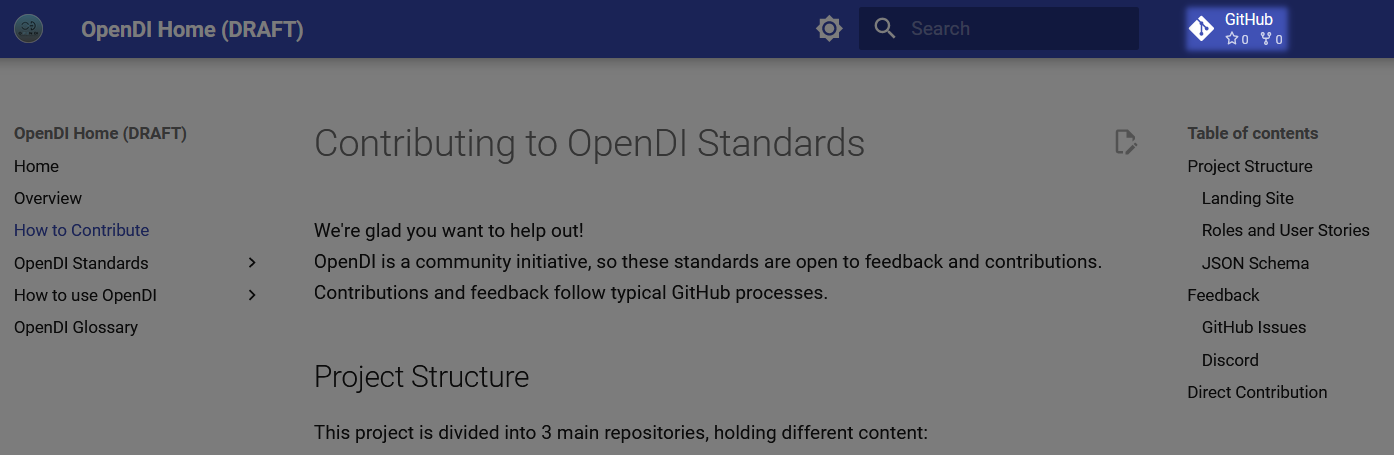
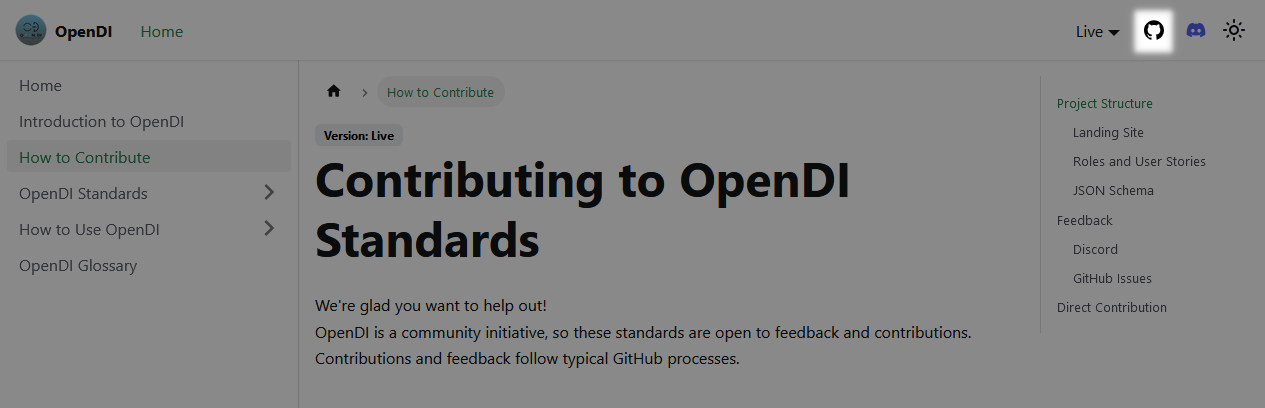
Update contribution guide for docusaurus site
This mostly meant updating the screenshots used throughout.

Preview changes in a deployed form here: https://opendi.org/next/How%20To%20Contribute

Also:
- added some instructions for Discord's forum channels
- expanded intro to lead into the rest of the sections a bit better
- added more info about documentaiton versioning on the site
- added link to the Maintainer Guide at the bottom of the direct contribution section

(Close #7 )

diff --git a/docs/How To Contribute.md b/docs/How To Contribute.md
@@ -1,7 +1,8 @@
 # Contributing to OpenDI Standards
 
 We're glad you want to help out!  
-OpenDI is a community initiative, so these standards are open to feedback and contributions.  Contributions and feedback follow typical GitHub processes.
+OpenDI is a community initiative, so these standards are open to feedback and contributions. [Contributions](#direct-contribution) follow typical GitHub processes, and we accept [feedback](#feedback) via multiple channels.  
+The community has organized itself around the [OpenDI Discord server](https://discord.gg/FtAX3JStJz). We hope to see you there!
 
 ## Project Structure
 
@@ -25,6 +26,20 @@ Holds the OpenDI JSON Schema for Causal Decision Models, and source for the sche
 
 [View Repo >>](https://github.com/opendi-org/json-schema)
 
+## Versions
+
+This project uses versioned releases for site content. By default, the site displays the latest released version to all users. To access other versions, use the versions dropdown menu on the right side of the navbar.
+
+**Use the versions dropdown menu in the top-right corner of each page to switch between documentation versions.**
+![Versions Dropdown](./img/contribution-guide/Website-Version-Dropdown.png)
+
+### Browse Upcoming Changes
+
+The site provides a public view that integrates all proposed changes that have been merged to the development branch of each repo. This means contributors can browse upcoming changes, and provide feedback on the most up-to-date working versions of all OpenDI materials.
+
+**To view the latest changes from development branches, select the `Next` option in the [versions](#versions) dropdown menu.**  
+![Next Version](./img/contribution-guide/Website-Next-Version.png)
+
 ## Feedback
 
 We use two main channels for feedback submission:
@@ -44,10 +59,24 @@ To access the Discord channels for these OpenDI materials:
 1. Select the "I would like to contribute to OpenDI standards" option in the initial join question.  
     ![Discord Contributor Option](./img/contribution-guide/Discord-Contributor.png)
 2. Read and accept the server rules, by clicking "Finish".
-3. Look for the Ecosystem Resources channel category in your channel list  
+3. Look for the Ecosystem Resources channel category in your channel list.  
     ![Discord Contributor Channels](./img/contribution-guide/Discord-Contributor-Channels.png)  
     If you do not see the channel category, check the "Browse Channels" option in the "Channels and Roles" page, at the top of the channel list.  
     ![Discord Browse Channels](./img/contribution-guide/Discord-Browse-Channels.png)
+
+#### Posting feedback to Discord forum channels
+
+The Ecosystem Resources channels on Discord use a forum posting format. See [this Discord FAQ](https://support.discord.com/hc/en-us/articles/6208479917079-Forum-Channels-FAQ) for more information on Discord's forum channels.
+
+To create a feedback post on Discord:
+
+1. Navigate to the appropriate channel (described [above](#discord))
+2. Click **New Post**  
+    ![Discord New Forum Post](./img/contribution-guide/Discord-New-Post.png)
+3. Fill in your **title** and the **message** for your post, and click **Post**.  
+    ![Discord Post to Forum](./img/contribution-guide/Discord-New-Post-Finish.png)
+
+Our posting guidelines for Discord are intentionally loose. If you have a conversation topic related to any of the resources here on OpenDI.org, **create a post!**
 
 ### GitHub Issues
 GitHub Issues are best for providing actionable feedback about individual repositories, including:
@@ -94,7 +123,10 @@ To submit an issue,
 
 Direct contributions are welcome! Contributions should follow the standard [fork](https://docs.github.com/en/pull-requests/collaborating-with-pull-requests/working-with-forks/fork-a-repo) and [pull request](https://docs.github.com/en/pull-requests/collaborating-with-pull-requests/proposing-changes-to-your-work-with-pull-requests/creating-a-pull-request-from-a-fork) workflow. Forks should use `dev` as their target working branch.
 
-To simplify this process, the website provides direct links to edit each page in the GitHub web client.
+To simplify this process, the website provides direct links to edit each page in the GitHub web client. To find this link, **ensure you are on the `Next` version of the docs**, then scroll to the bottom of the page.  
+See [Browse Upcoming Changes](#browse-upcoming-changes).
 
-**Use the Edit Page link to access the GitHub web client and edit the source for the current page.**
+**Use the "Edit this page" link at the bottom of each page to access the GitHub web client and edit the source for the current page.**
 ![GitHub Edit Page link](./img/contribution-guide/GitHub-Edit-Link.png)  
+
+Looking for more technical information about project maintenance, deployment, and Docusuarus configuration? Check out the [maintainer guide](https://github.com/opendi-org/landing-site/tree/main/Maintainer%20Guide#maintainer-guide) on GitHub.
